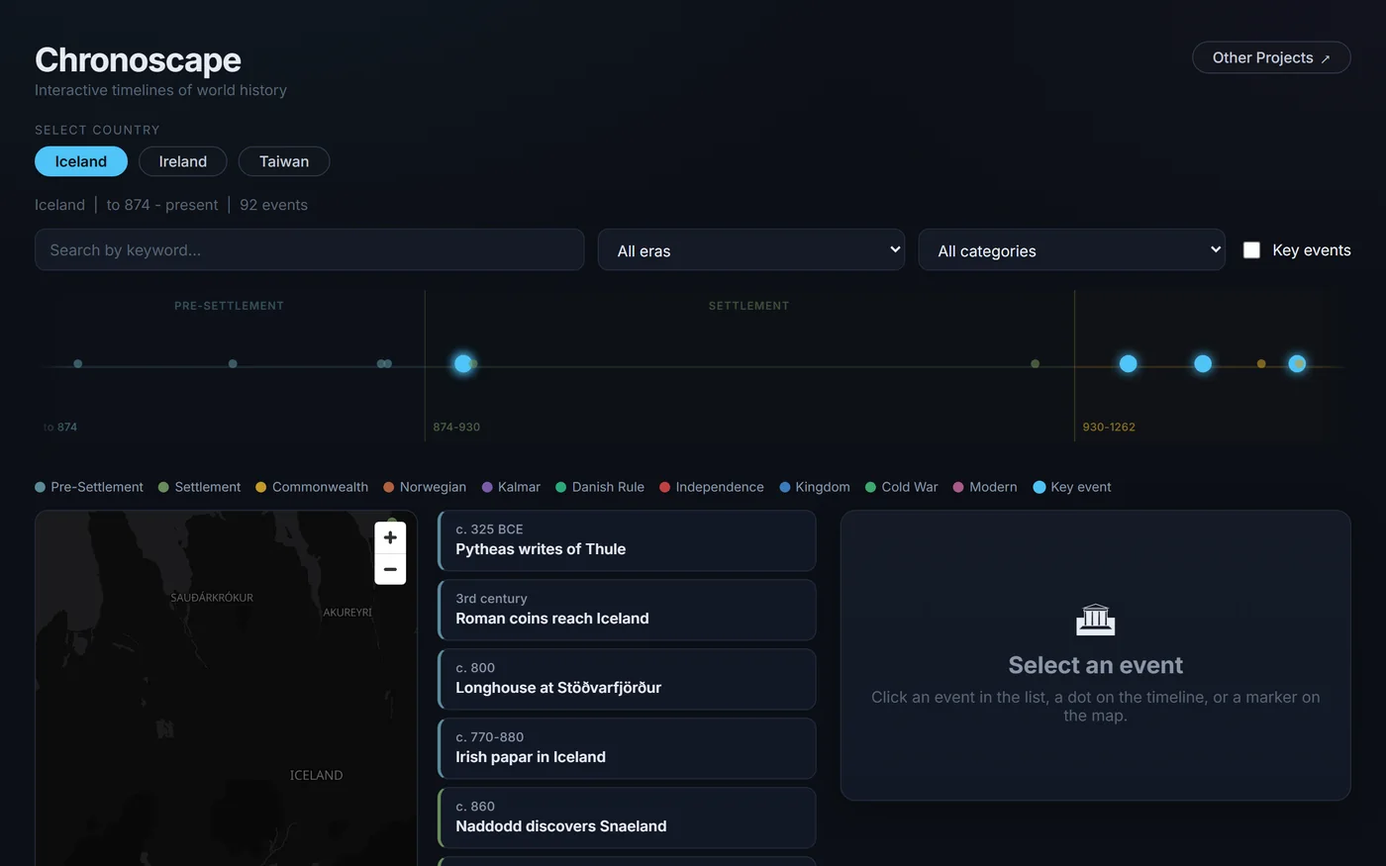
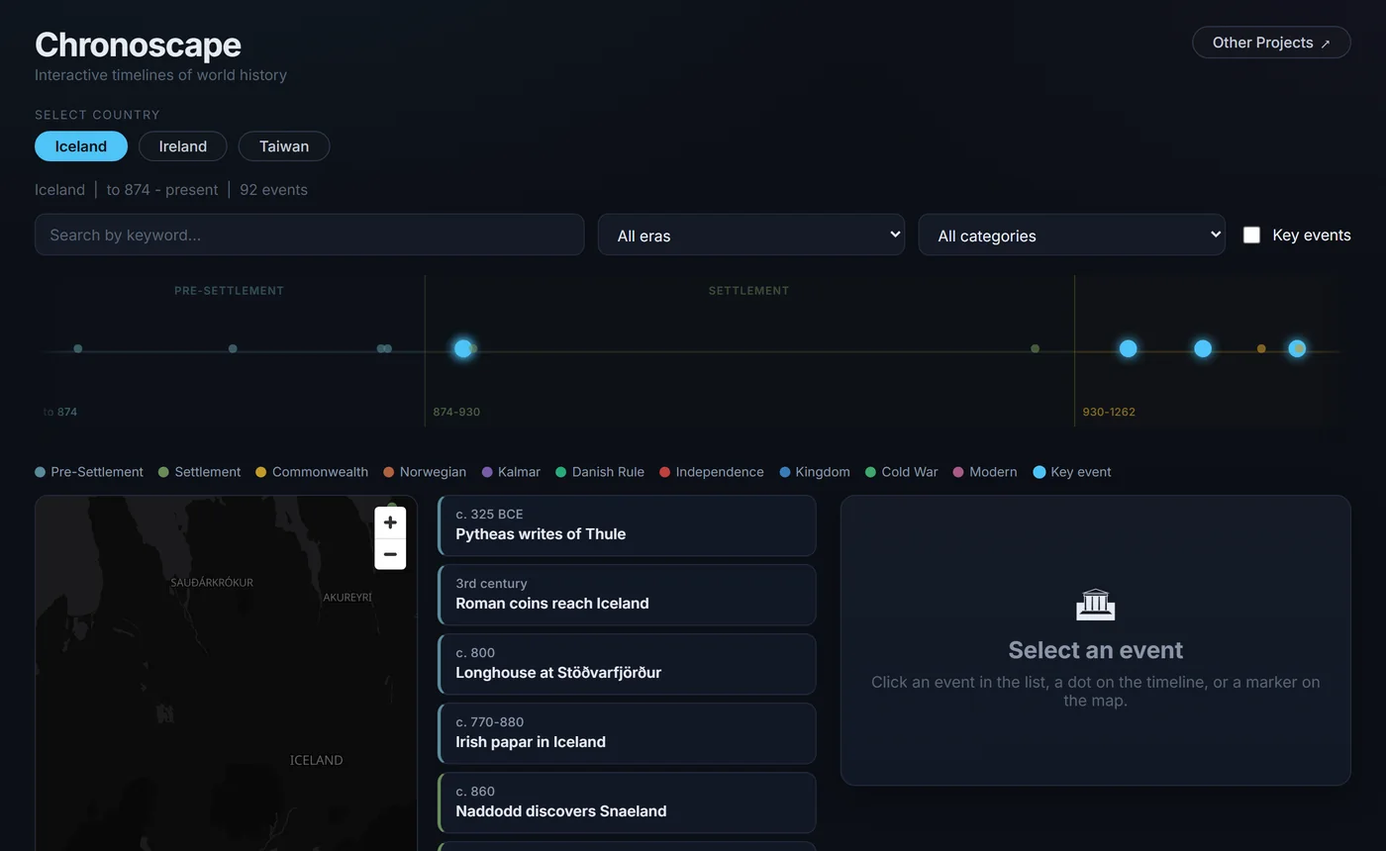
Tighter thumbnail framing, and drawn motifs for the projects with no site
Framing is now driven by the real content bounding box, measured in the page -
the union of every visible text node, image, control and SVG, clipped to the
viewport - rather than by looking for flat-coloured edge columns. The old test
missed Lexicon entirely, because one full-width element defeated it, and it could
not see dead space above a masthead at all. This fixes Lexicon's side padding and
the ~80px of empty space above One Story and The Aftertimes in one change.

Consensus Drift now frames with context_above, so the card shows the filter row
above the chart and reads as a website rather than a bare graph.

Replace the schematic text rows on the seven blocks with an actual image each: a
drawn SVG motif, theme-aware, no data. Drawn rather than screenshotted because
Lighthouse and Vantage cannot be captured without a live Bloomberg pull, and
Lighthouse shows real holdings. Each one abstracts what the system does - a
narrowing gate stack, a breakout with a trailing stop, rebalancing weights, a
cycle dial, a module grid, a hedge ratio in its tolerance band, sources funnelling
to a digest.

The blocks needed a .also-body wrapper: with the motif added, the grid had four
children and the lead paragraph auto-placed itself into the image column.

diff --git a/index.html b/index.html
@@ -93,15 +93,16 @@
   .also-item { padding: 1.25rem 0; border-top: 1px solid var(--rule); }
   .also-item:first-of-type { border-top: none; }
   .also-item:last-of-type { border-bottom: 1px solid var(--rule); }
-  .also-head { display: flex; align-items: baseline; gap: .8rem; flex-wrap: wrap; margin-bottom: .4rem; }
+  .also-head { display: flex; align-items: baseline; gap: .8rem; flex-wrap: wrap; margin: 0 0 .4rem; }
   .also-name { font-size: 1.28rem; letter-spacing: -.01em; }
   .also-desc { color: var(--soft); font-size: .99rem; max-width: 62ch; margin: 0; }
   .tag { font: 600 10.5px/1 ui-sans-serif, system-ui, sans-serif; letter-spacing: .1em; text-transform: uppercase; padding: .3rem .5rem; border-radius: 4px; white-space: nowrap; color: var(--faint); border: 1px solid var(--rule); }
 
-  /* schematic pipeline (personal projects) - text-only, theme-aware, no data */
-  .flow { display: flex; flex-wrap: wrap; align-items: center; gap: .45rem; margin: 1rem 0 1.25rem; }
-  .flow .node { font: 500 11.5px/1 ui-sans-serif, system-ui, sans-serif; color: var(--ink); background: var(--motif-bg); border: 1px solid var(--rule); border-radius: 5px; padding: .45rem .65rem; white-space: nowrap; }
-  .flow .arw2 { color: var(--accent); font: 600 13px/1 ui-sans-serif, system-ui, sans-serif; }
+  /* schematic motif for the projects with no public site - drawn, not screenshotted,
+     so nothing from a Bloomberg-fed or position-holding app is ever published */
+  .also-item { display: grid; grid-template-columns: 168px 1fr; gap: 1.6rem; align-items: start; }
+  .also-motif { background: var(--motif-bg); border: 1px solid var(--rule); border-radius: 6px; aspect-ratio: 16 / 10; overflow: hidden; }
+  .also-motif svg { display: block; width: 100%; height: 100%; }
 
   /* also-built: scannable lead + bullet list */
   .also-lead { color: var(--ink); font-size: 1rem; margin: 0 0 .7rem; max-width: 64ch; }
@@ -115,6 +116,8 @@
     .bar { margin-bottom: 3rem; }
     .proj, .proj:nth-child(even of .proj) { grid-template-columns: 1fr; gap: 1.1rem; }
     .proj:nth-child(even of .proj) .thumb { order: 0; }
+    .also-item { grid-template-columns: 1fr; gap: 1rem; }
+    .also-motif { max-width: 220px; }
   }
   @media (prefers-reduced-motion: no-preference) {
     .section-label, .proj { animation: rise .7s cubic-bezier(.2,.7,.3,1) both; }
@@ -224,97 +227,111 @@
   </a>
 
   <div class="also-item">
-    <div class="also-head"><span class="also-name">Lighthouse</span><span class="tag">Personal project</span></div>
-    <p class="also-lead">A personal investment decision system - part analytical workbench, part decision journal.</p>
-    <div class="flow"><span class="node">Universe screen</span><span class="arw2">&#8594;</span><span class="node">Valuation lenses</span><span class="arw2">&#8594;</span><span class="node">Buy gate</span><span class="arw2">&#8594;</span><span class="node">Kill chain</span><span class="arw2">&#8594;</span><span class="node">Decision journal</span></div>
-    <ul class="also-points">
-      <li>Screens and values a multi-asset universe - equities, macro, FX, crypto, super and CFDs - replacing an Excel workflow</li>
-      <li>Valuation lenses for DCF, fundamentals history, moat and quality, return-potential and drawdown</li>
-      <li>A buy-gate, kill-chain, sell-triggers and prohibitions govern each decision</li>
-      <li>A decision journal of theses, trades, outcomes and reviews, for backtesting the methodology behind them</li>
-      <li>Pure-Python core, a SQLite journal (alembic) with nightly backup, and a Bloomberg + Excel data layer</li>
-    </ul>
-    <p class="also-tech">Bloomberg · Python · Streamlit · SQLite</p>
+    <div class="also-motif" role="img" aria-label="Schematic: a five-stage gate narrowing to a single decision"><svg viewBox="0 0 160 100" xmlns="http://www.w3.org/2000/svg"><rect x="20" y="16" width="120" height="8" rx="2" fill="var(--rule)"/><rect x="31" y="30" width="98" height="8" rx="2" fill="var(--rule)"/><rect x="42" y="44" width="76" height="8" rx="2" fill="var(--rule)"/><rect x="53" y="58" width="54" height="8" rx="2" fill="var(--rule)"/><rect x="64" y="72" width="32" height="8" rx="2" fill="var(--accent)"/><circle cx="80" cy="90" r="3.5" fill="var(--accent)"/></svg></div>
+    <div class="also-body">
+      <div class="also-head"><span class="also-name">Lighthouse</span><span class="tag">Personal project</span></div>
+      <p class="also-lead">A personal investment decision system - part analytical workbench, part decision journal.</p>
+      <ul class="also-points">
+        <li>Screens and values a multi-asset universe - equities, macro, FX, crypto, super and CFDs - replacing an Excel workflow</li>
+        <li>Valuation lenses for DCF, fundamentals history, moat and quality, return-potential and drawdown</li>
+        <li>A buy-gate, kill-chain, sell-triggers and prohibitions govern each decision</li>
+        <li>A decision journal of theses, trades, outcomes and reviews, for backtesting the methodology behind them</li>
+        <li>Pure-Python core, a SQLite journal (alembic) with nightly backup, and a Bloomberg + Excel data layer</li>
+      </ul>
+      <p class="also-tech">Bloomberg · Python · Streamlit · SQLite</p>
+    </div>
   </div>
 
   <div class="also-item">
-    <div class="also-head"><span class="also-name">Parallax</span><span class="tag">Personal project</span></div>
-    <p class="also-lead">A systematic momentum/trend system for equity CFDs.</p>
-    <div class="flow"><span class="node">Screeners</span><span class="arw2">&#8594;</span><span class="node">Chart-quant score</span><span class="arw2">&#8594;</span><span class="node">14-gate kill chain</span><span class="arw2">&#8594;</span><span class="node">Sizing</span><span class="arw2">&#8594;</span><span class="node">Trailing stop</span></div>
-    <ul class="also-points">
-      <li>Breakout, compression, pullback and near-high screeners</li>
-      <li>A chart-quant score feeding a 14-gate risk "kill-chain"</li>
-      <li>Regime-aware position sizing, capped for correlation and concentration</li>
-      <li>Structural trailing stops with a break-even ratchet on exits</li>
-      <li>A point-in-time backtest with cost and friction modelling, plus a daily-review loop and decision log</li>
-    </ul>
-    <p class="also-tech">Bloomberg · TradingView · Yahoo · Python · Streamlit · SQLite</p>
+    <div class="also-motif" role="img" aria-label="Schematic: a price breakout with a stepped trailing stop beneath it"><svg viewBox="0 0 160 100" xmlns="http://www.w3.org/2000/svg"><polyline points="10,80 27,72 44,76 61,58 78,63 95,44 112,49 129,28 146,20" fill="none" stroke="var(--ink)" stroke-width="2" stroke-linejoin="round"/><path d="M10 90 H44 V84 H78 V70 H112 V56 H146" fill="none" stroke="var(--accent)" stroke-width="1.6" stroke-dasharray="4 3"/><circle cx="129" cy="28" r="3.2" fill="var(--accent)"/></svg></div>
+    <div class="also-body">
+      <div class="also-head"><span class="also-name">Parallax</span><span class="tag">Personal project</span></div>
+      <p class="also-lead">A systematic momentum/trend system for equity CFDs.</p>
+      <ul class="also-points">
+        <li>Breakout, compression, pullback and near-high screeners</li>
+        <li>A chart-quant score feeding a 14-gate risk "kill-chain"</li>
+        <li>Regime-aware position sizing, capped for correlation and concentration</li>
+        <li>Structural trailing stops with a break-even ratchet on exits</li>
+        <li>A point-in-time backtest with cost and friction modelling, plus a daily-review loop and decision log</li>
+      </ul>
+      <p class="also-tech">Bloomberg · TradingView · Yahoo · Python · Streamlit · SQLite</p>
+    </div>
   </div>
 
   <div class="also-item">
-    <div class="also-head"><span class="also-name">All-Weather Allocator</span><span class="tag">Personal project</span></div>
-    <p class="also-lead">A risk-parity "all-weather" portfolio allocator.</p>
-    <div class="flow"><span class="node">Regime model</span><span class="arw2">&#8594;</span><span class="node">Signal ensemble</span><span class="arw2">&#8594;</span><span class="node">Risk-parity weights</span><span class="arw2">&#8594;</span><span class="node">Drawdown budget</span><span class="arw2">&#8594;</span><span class="node">Contributions</span></div>
-    <ul class="also-points">
-      <li>A rolling weight optimiser over a regime model</li>
-      <li>A signal ensemble of yield and drawdown-momentum</li>
-      <li>Sizing against a drawdown budget, with a precomputed contribution schedule</li>
-      <li>A backtest and stats harness, implemented over CFDs</li>
-    </ul>
-    <p class="also-tech">Python · Streamlit</p>
+    <div class="also-motif" role="img" aria-label="Schematic: stacked portfolio weights rebalancing across six periods"><svg viewBox="0 0 160 100" xmlns="http://www.w3.org/2000/svg"><rect x="14" y="72" width="14" height="19" rx="1.5" fill="var(--accent)"/><rect x="14" y="46" width="14" height="25" rx="1.5" fill="var(--rule)"/><rect x="14" y="28" width="14" height="17" rx="1.5" fill="var(--faint)"/><rect x="14" y="14" width="14" height="13" rx="1.5" fill="var(--rule)"/><rect x="38" y="68" width="14" height="23" rx="1.5" fill="var(--accent)"/><rect x="38" y="48" width="14" height="19" rx="1.5" fill="var(--rule)"/><rect x="38" y="26" width="14" height="21" rx="1.5" fill="var(--faint)"/><rect x="38" y="14" width="14" height="11" rx="1.5" fill="var(--rule)"/><rect x="62" y="74" width="14" height="17" rx="1.5" fill="var(--accent)"/><rect x="62" y="44" width="14" height="29" rx="1.5" fill="var(--rule)"/><rect x="62" y="28" width="14" height="15" rx="1.5" fill="var(--faint)"/><rect x="62" y="14" width="14" height="13" rx="1.5" fill="var(--rule)"/><rect x="86" y="66" width="14" height="25" rx="1.5" fill="var(--accent)"/><rect x="86" y="48" width="14" height="17" rx="1.5" fill="var(--rule)"/><rect x="86" y="28" width="14" height="19" rx="1.5" fill="var(--faint)"/><rect x="86" y="14" width="14" height="13" rx="1.5" fill="var(--rule)"/><rect x="110" y="70" width="14" height="21" rx="1.5" fill="var(--accent)"/><rect x="110" y="46" width="14" height="23" rx="1.5" fill="var(--rule)"/><rect x="110" y="32" width="14" height="13" rx="1.5" fill="var(--faint)"/><rect x="110" y="14" width="14" height="17" rx="1.5" fill="var(--rule)"/><rect x="134" y="76" width="14" height="15" rx="1.5" fill="var(--accent)"/><rect x="134" y="48" width="14" height="27" rx="1.5" fill="var(--rule)"/><rect x="134" y="28" width="14" height="19" rx="1.5" fill="var(--faint)"/><rect x="134" y="14" width="14" height="13" rx="1.5" fill="var(--rule)"/></svg></div>
+    <div class="also-body">
+      <div class="also-head"><span class="also-name">All-Weather Allocator</span><span class="tag">Personal project</span></div>
+      <p class="also-lead">A risk-parity "all-weather" portfolio allocator.</p>
+      <ul class="also-points">
+        <li>A rolling weight optimiser over a regime model</li>
+        <li>A signal ensemble of yield and drawdown-momentum</li>
+        <li>Sizing against a drawdown budget, with a precomputed contribution schedule</li>
+        <li>A backtest and stats harness, implemented over CFDs</li>
+      </ul>
+      <p class="also-tech">Python · Streamlit</p>
+    </div>
   </div>
 
   <div class="also-item">
-    <div class="also-head"><span class="also-name">BTC Analyser</span><span class="tag">Personal project</span></div>
-    <p class="also-lead">A Bitcoin accumulation model - scores where BTC sits in its cycle and sizes contributions accordingly.</p>
-    <div class="flow"><span class="node">On-chain signals</span><span class="arw2">&#8594;</span><span class="node">Composite score</span><span class="arw2">&#8594;</span><span class="node">Risk gate</span><span class="arw2">&#8594;</span><span class="node">Contribution size</span></div>
-    <ul class="also-points">
-      <li>On-chain and cycle signals - MVRV-Z, Mayer multiple, Puell, realised-price ratio, 2-year MA and Fear &amp; Greed</li>
-      <li>Blended into a composite score, then gated by a risk kill-chain</li>
-      <li>Leverage- and liquidation-aware contribution sizing</li>
-    </ul>
-    <p class="also-tech">Binance · CoinMetrics · On-chain Data · Python</p>
+    <div class="also-motif" role="img" aria-label="Schematic: a cycle dial with the needle part way round"><svg viewBox="0 0 160 100" xmlns="http://www.w3.org/2000/svg"><path d="M28 80 A 52 52 0 0 1 132 80" fill="none" stroke="var(--rule)" stroke-width="7" stroke-linecap="round"/><path d="M28 80 A 52 52 0 0 1 62 31" fill="none" stroke="var(--accent)" stroke-width="7" stroke-linecap="round"/><line x1="80" y1="80" x2="104" y2="42" stroke="var(--ink)" stroke-width="2.2" stroke-linecap="round"/><circle cx="80" cy="80" r="4" fill="var(--ink)"/></svg></div>
+    <div class="also-body">
+      <div class="also-head"><span class="also-name">BTC Analyser</span><span class="tag">Personal project</span></div>
+      <p class="also-lead">A Bitcoin accumulation model - scores where BTC sits in its cycle and sizes contributions accordingly.</p>
+      <ul class="also-points">
+        <li>On-chain and cycle signals - MVRV-Z, Mayer multiple, Puell, realised-price ratio, 2-year MA and Fear &amp; Greed</li>
+        <li>Blended into a composite score, then gated by a risk kill-chain</li>
+        <li>Leverage- and liquidation-aware contribution sizing</li>
+      </ul>
+      <p class="also-tech">Binance · CoinMetrics · On-chain Data · Python</p>
+    </div>
   </div>
 
   <div class="also-item">
-    <div class="also-head"><span class="also-name">Vantage</span><span class="tag">Personal project</span></div>
-    <p class="also-lead">A packaged Bloomberg-powered markets-analytics desktop app - ~20 modules.</p>
-    <div class="flow"><span class="node">Cached data layer</span><span class="arw2">&#8594;</span><span class="node">Per-module calc engines</span><span class="arw2">&#8594;</span><span class="node">20 modules</span><span class="arw2">&#8594;</span><span class="node">Packaged app</span></div>
-    <ul class="also-points">
-      <li>Yield-curve and global-rates monitors, rate futures and yield-curve shock</li>
-      <li>Implied-vol and FX-vol surfaces</li>
-      <li>Carry, historical-valuation, analyst-upside, return-potential and value-momentum screens, plus a pairs-trading backtester</li>
-      <li>A Monte-Carlo price simulator, a drawdown analyser, FX forecasts and G20/macro dashboards</li>
-      <li>A cached Bloomberg data layer feeding per-module calc engines, packaged to a standalone Windows app (PyInstaller) with auth/entitlements and a usage meter</li>
-    </ul>
-    <p class="also-tech">Python · Streamlit</p>
+    <div class="also-motif" role="img" aria-label="Schematic: a grid of modules sitting on one shared data layer"><svg viewBox="0 0 160 100" xmlns="http://www.w3.org/2000/svg"><rect x="14" y="12" width="22" height="14" rx="2.5" fill="var(--rule)"/><rect x="41" y="12" width="22" height="14" rx="2.5" fill="var(--rule)"/><rect x="68" y="12" width="22" height="14" rx="2.5" fill="var(--accent)"/><rect x="95" y="12" width="22" height="14" rx="2.5" fill="var(--rule)"/><rect x="122" y="12" width="22" height="14" rx="2.5" fill="var(--rule)"/><rect x="14" y="32" width="22" height="14" rx="2.5" fill="var(--rule)"/><rect x="41" y="32" width="22" height="14" rx="2.5" fill="var(--rule)"/><rect x="68" y="32" width="22" height="14" rx="2.5" fill="var(--rule)"/><rect x="95" y="32" width="22" height="14" rx="2.5" fill="var(--rule)"/><rect x="122" y="32" width="22" height="14" rx="2.5" fill="var(--rule)"/><rect x="14" y="52" width="22" height="14" rx="2.5" fill="var(--rule)"/><rect x="41" y="52" width="22" height="14" rx="2.5" fill="var(--rule)"/><rect x="68" y="52" width="22" height="14" rx="2.5" fill="var(--rule)"/><rect x="95" y="52" width="22" height="14" rx="2.5" fill="var(--rule)"/><rect x="122" y="52" width="22" height="14" rx="2.5" fill="var(--rule)"/><rect x="14" y="80" width="132" height="8" rx="2.5" fill="var(--faint)"/></svg></div>
+    <div class="also-body">
+      <div class="also-head"><span class="also-name">Vantage</span><span class="tag">Personal project</span></div>
+      <p class="also-lead">A packaged Bloomberg-powered markets-analytics desktop app - ~20 modules.</p>
+      <ul class="also-points">
+        <li>Yield-curve and global-rates monitors, rate futures and yield-curve shock</li>
+        <li>Implied-vol and FX-vol surfaces</li>
+        <li>Carry, historical-valuation, analyst-upside, return-potential and value-momentum screens, plus a pairs-trading backtester</li>
+        <li>A Monte-Carlo price simulator, a drawdown analyser, FX forecasts and G20/macro dashboards</li>
+        <li>A cached Bloomberg data layer feeding per-module calc engines, packaged to a standalone Windows app (PyInstaller) with auth/entitlements and a usage meter</li>
+      </ul>
+      <p class="also-tech">Python · Streamlit</p>
+    </div>
   </div>
 
   <div class="also-item">
-    <div class="also-head"><span class="also-name">Overlay &amp; Hedging Ops</span><span class="tag">Internal tool</span></div>
-    <p class="also-lead">An operations platform for hedging programmes across institutional mandates.</p>
-    <div class="flow"><span class="node">Feeds and inboxes</span><span class="arw2">&#8594;</span><span class="node">Parsers</span><span class="arw2">&#8594;</span><span class="node">Calc engine</span><span class="arw2">&#8594;</span><span class="node">Daily reval</span><span class="arw2">&#8594;</span><span class="node">Ops dashboard</span></div>
-    <ul class="also-points">
-      <li>Ingests position and rate data from custodian/admin feeds and monitored inboxes</li>
-      <li>Computes daily revaluations and mark-to-market</li>
-      <li>Schedules rollovers and tracks hedge ratios and effectiveness</li>
-      <li>Tracks fund NAV, performance, flows, leverage and risk analytics</li>
-      <li>Reports off an operations dashboard, driven by parsers, a calc engine and scheduled daily/EOD jobs</li>
-    </ul>
-    <p class="also-tech">Python · Streamlit</p>
+    <div class="also-motif" role="img" aria-label="Schematic: a hedge ratio inside its tolerance band"><svg viewBox="0 0 160 100" xmlns="http://www.w3.org/2000/svg"><rect x="14" y="30" width="132" height="16" rx="3" fill="var(--rule)"/><rect x="14" y="30" width="92" height="16" rx="3" fill="var(--accent)"/><line x1="84" y1="22" x2="84" y2="54" stroke="var(--faint)" stroke-width="1.4" stroke-dasharray="3 3"/><line x1="120" y1="22" x2="120" y2="54" stroke="var(--faint)" stroke-width="1.4" stroke-dasharray="3 3"/><rect x="14" y="66" width="132" height="6" rx="3" fill="var(--rule)"/><rect x="14" y="66" width="58" height="6" rx="3" fill="var(--faint)"/><rect x="14" y="82" width="132" height="6" rx="3" fill="var(--rule)"/><rect x="14" y="82" width="104" height="6" rx="3" fill="var(--faint)"/></svg></div>
+    <div class="also-body">
+      <div class="also-head"><span class="also-name">Overlay &amp; Hedging Ops</span><span class="tag">Internal tool</span></div>
+      <p class="also-lead">An operations platform for hedging programmes across institutional mandates.</p>
+      <ul class="also-points">
+        <li>Ingests position and rate data from custodian/admin feeds and monitored inboxes</li>
+        <li>Computes daily revaluations and mark-to-market</li>
+        <li>Schedules rollovers and tracks hedge ratios and effectiveness</li>
+        <li>Tracks fund NAV, performance, flows, leverage and risk analytics</li>
+        <li>Reports off an operations dashboard, driven by parsers, a calc engine and scheduled daily/EOD jobs</li>
+      </ul>
+      <p class="also-tech">Python · Streamlit</p>
+    </div>
   </div>
 
   <div class="also-item">
-    <div class="also-head"><span class="also-name">Signal Pipelines</span><span class="tag">Internal tool</span></div>
-    <p class="also-lead">Scheduled pipelines that turn public sources into a ranked daily digest.</p>
-    <div class="flow"><span class="node">Public sources</span><span class="arw2">&#8594;</span><span class="node">Enrich and dedupe</span><span class="arw2">&#8594;</span><span class="node">Relevance score</span><span class="arw2">&#8594;</span><span class="node">Ranked digest</span></div>
-    <ul class="also-points">
-      <li>Scrapes public filings and job/ATS feeds</li>
-      <li>Enriches and dedupes records, including PDF body-fetch</li>
-      <li>Scores for relevance against a configurable rule set</li>
-      <li>Pushes a ranked daily digest to Teams</li>
-    </ul>
-    <p class="also-tech">Python</p>
+    <div class="also-motif" role="img" aria-label="Schematic: many sources narrowing to a short ranked digest"><svg viewBox="0 0 160 100" xmlns="http://www.w3.org/2000/svg"><circle cx="12" cy="14" r="2.6" fill="var(--faint)"/><circle cx="34" cy="14" r="2.6" fill="var(--faint)"/><circle cx="57" cy="14" r="2.6" fill="var(--faint)"/><circle cx="80" cy="14" r="2.6" fill="var(--faint)"/><circle cx="102" cy="14" r="2.6" fill="var(--faint)"/><circle cx="124" cy="14" r="2.6" fill="var(--faint)"/><circle cx="147" cy="14" r="2.6" fill="var(--faint)"/><circle cx="23" cy="27" r="2.6" fill="var(--faint)"/><circle cx="46" cy="27" r="2.6" fill="var(--faint)"/><circle cx="68" cy="27" r="2.6" fill="var(--faint)"/><circle cx="90" cy="27" r="2.6" fill="var(--faint)"/><circle cx="113" cy="27" r="2.6" fill="var(--faint)"/><circle cx="136" cy="27" r="2.6" fill="var(--faint)"/><circle cx="158" cy="27" r="2.6" fill="var(--faint)"/><path d="M14 44 L80 60 L146 44" fill="none" stroke="var(--rule)" stroke-width="1.6"/><rect x="28" y="68" width="104" height="7" rx="2" fill="var(--accent)"/><rect x="39" y="79" width="82" height="7" rx="2" fill="var(--rule)"/><rect x="50" y="90" width="60" height="7" rx="2" fill="var(--rule)"/></svg></div>
+    <div class="also-body">
+      <div class="also-head"><span class="also-name">Signal Pipelines</span><span class="tag">Internal tool</span></div>
+      <p class="also-lead">Scheduled pipelines that turn public sources into a ranked daily digest.</p>
+      <ul class="also-points">
+        <li>Scrapes public filings and job/ATS feeds</li>
+        <li>Enriches and dedupes records, including PDF body-fetch</li>
+        <li>Scores for relevance against a configurable rule set</li>
+        <li>Pushes a ranked daily digest to Teams</li>
+      </ul>
+      <p class="also-tech">Python</p>
+    </div>
   </div>
 
   <p class="foot">Sydney, Australia</p>

diff --git a/tools/shoot_thumbnails.py b/tools/shoot_thumbnails.py
@@ -9,13 +9,17 @@ the same on a laptop and in Actions with no dev server.
 
 Three things this handles that a naive screenshot does not:
 
-1. **Side gutters.** Most of these sites centre their content in a max-width
-   column, so a 1280-wide shot is mostly empty background - One Story was 49%
-   dead space (657px of content in a 1280px frame). The shot is taken at 2x and
-   cropped to the content column, so the text is legible at card size.
-2. **The interesting bit is below the fold** on some pages. `FOCUS` shoots a
-   named element instead of the top of the page - Consensus Drift's masthead and
-   filter dropdowns made for a thumbnail with no chart in it.
+1. **Dead margin.** These sites centre their content in a max-width column and
+   most open with a chunk of space above the masthead, so a plain 1280x800 shot is
+   largely background - One Story was 49% empty either side plus 80px above. The
+   crop is driven by the real content bounding box, measured in the page: the union
+   of every visible text node, image, control and SVG, clipped to the viewport.
+   An earlier version looked for flat-coloured edge columns instead, which missed
+   Lexicon entirely because one full-width element defeated the test.
+2. **The interesting bit is below the fold** on some pages. `ANCHOR` frames on a
+   named element - Consensus Drift's masthead and filter dropdowns made for a
+   thumbnail with no chart in it - and `context_above` keeps some of the page
+   chrome in shot so the card still reads as a website rather than a bare graph.
 3. **Churn.** A re-shoot of an unchanged page still produces different bytes, so
    a weekly job would commit noise forever. Anything under MIN_DIFF against the
    current file is left alone.
@@ -55,9 +59,12 @@ SITES = {
 # stale within 24 hours. Everything else only moves when its code does.
 DAILY = ["one-story", "the-aftertimes"]
 
-# Pages whose top is a masthead rather than the product. Shoot this element.
-FOCUS = {
-    "consensus-drift": "svg",       # the quadrant chart IS the product
+# Pages whose top is a masthead rather than the product: frame on an element
+# instead. `context_above` is the share of the frame height spent on whatever sits
+# above that element, so the card shows a website with a chart in it rather than a
+# chart on its own.
+ANCHOR = {
+    "consensus-drift": {"selector": "svg", "context_above": 0.30},
 }
 
 VIEW = {"width": 1280, "height": 800}
@@ -68,31 +75,46 @@ MARGIN_FRAC = 0.04       # breathing room either side of the content column
 MIN_DIFF = 2.0           # mean channel difference below this counts as no change
 
 
-def gutters(im):
-    """Columns at each edge that are a single flat colour top to bottom."""
-    w, h = im.size
-    px = im.load()
+# Measured in the page rather than guessed from pixels: the union of every
+# visible text node, image, control and SVG, clipped to the viewport. That is the
+# real content box, so cropping to it removes both the max-width side gutters and
+# the dead space above a masthead in one step.
+CONTENT_BOX_JS = """() => {
+  const vw = innerWidth, vh = innerHeight;
+  let x0 = vw, y0 = vh, x1 = 0, y1 = 0, n = 0;
+  document.querySelectorAll('*').forEach(e => {
+    const tag = e.tagName;
+    if (tag === 'SCRIPT' || tag === 'STYLE') return;
+    const hasText = [...e.childNodes].some(c => c.nodeType === 3 && c.textContent.trim());
+    const isVisual = ['IMG', 'SVG', 'CANVAS', 'INPUT', 'SELECT', 'BUTTON'].includes(tag);
+    if (!hasText && !isVisual) return;
+    const r = e.getBoundingClientRect();
+    if (r.width < 2 || r.height < 2) return;
+    if (r.bottom < 0 || r.top > vh || r.right < 0 || r.left > vw) return;
+    x0 = Math.min(x0, Math.max(0, r.left));
+    y0 = Math.min(y0, Math.max(0, r.top));
+    x1 = Math.max(x1, Math.min(vw, r.right));
+    y1 = Math.max(y1, Math.min(vh, r.bottom));
+    n++;
+  });
+  return n ? {x0, y0, x1, y1} : null;
+}"""
 
-    def flat(x):
-        c = px[x, 0]
-        return all(px[x, y] == c for y in range(0, h, 5))
 
-    left = 0
-    while left < w // 2 and flat(left):
-        left += 1
-    right = w - 1
-    while right > w // 2 and flat(right):
-        right -= 1
-    return left, right
+def crop_16x10(im, x0, y0, w, h_avail):
+    """Crop a 16:10 frame of width w starting at (x0, y0), at 2x scale."""
+    h = min(w * 10 / 16, h_avail)
+    return im.crop(tuple(round(v * SCALE) for v in (x0, y0, x0 + w, y0 + h)))
 
 
 def framed(page, slug, raw):
     """Return the cropped 16:10 image for one site."""
-    if slug in FOCUS:
+    if slug in ANCHOR:
+        cfg = ANCHOR[slug]
         # Playwright's own `clip` cannot reach below the fold - a tall element
         # came back silently truncated - so scroll it into view, shoot the
         # viewport, and crop with PIL.
-        el = page.locator(FOCUS[slug]).first
+        el = page.locator(cfg["selector"]).first
         el.scroll_into_view_if_needed()
         page.wait_for_timeout(600)
         box = el.bounding_box()                  # viewport-relative
@@ -104,17 +126,23 @@ def framed(page, slug, raw):
         x1 = min(VIEW["width"], box["x"] + box["width"] + pad)
         w = x1 - x0
         h = min(w * 10 / 16, VIEW["height"])
-        y0 = max(0, min(box["y"] + box["height"] / 2 - h / 2, VIEW["height"] - h))
-        return im.crop(tuple(round(v * SCALE) for v in (x0, y0, x0 + w, y0 + h)))
+        # Start the frame above the element so the card keeps some page chrome.
+        y0 = max(0, min(box["y"] - h * cfg.get("context_above", 0),
+                        VIEW["height"] - h))
+        return crop_16x10(im, x0, y0, w, VIEW["height"] - y0)
 
     page.screenshot(path=str(raw))
     im = Image.open(raw).convert("RGB")
-    w, h = im.size
-    left, right = gutters(im)
-    pad = int((right - left + 1) * MARGIN_FRAC)
-    x0 = max(0, left - pad)
-    x1 = min(w, right + 1 + pad)
-    return im.crop((x0, 0, x1, min(h, round((x1 - x0) * 10 / 16))))
+    box = page.evaluate(CONTENT_BOX_JS)
+    if not box:
+        return crop_16x10(im, 0, 0, VIEW["width"], VIEW["height"])
+
+    pad = (box["x1"] - box["x0"]) * MARGIN_FRAC
+    x0 = max(0, box["x0"] - pad)
+    x1 = min(VIEW["width"], box["x1"] + pad)
+    # Only a little of the top margin is kept - it is nearly always dead space.
+    y0 = max(0, box["y0"] - pad / 2)
+    return crop_16x10(im, x0, y0, x1 - x0, VIEW["height"] - y0)
 
 
 def changed_enough(new, dest):
